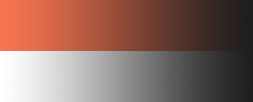
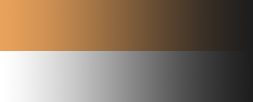
after evaluation: color scheme; remove heatmap interaction

Changed region(s): [[0.0, 0.0, 0.4704, 0.5]]

diff --git a/src/client/components/CrossingChart.js b/src/client/components/CrossingChart.js
@@ -102,11 +102,11 @@ class Area extends React.Component {
           <defs>
             <linearGradient id="gradient_cross" x1="74.9%" y1="0%" x2="75.1%" y2="0%">
               <stop offset="0%" stopColor="rgb(253, 128, 93)" stopOpacity={0.5} />
-              <stop offset="100%" stopColor="rgb(104, 90, 16)" stopOpacity={0.7} />
+              <stop offset="100%" stopColor="rgb(120, 151, 0)" stopOpacity={0.6} />
             </linearGradient>
             <linearGradient id="gradient_cover" x1="0%" y1="50%" x2="0%" y2="100%">
               <stop offset="0%" stopColor="rgb(0, 0, 0)" stopOpacity={0} />
-              <stop offset="100%" stopColor="rgb(0, 0, 0)" stopOpacity={0.6} />
+              <stop offset="100%" stopColor="rgb(0, 0, 0)" stopOpacity={0.95} />
             </linearGradient>
           </defs>
           <GridRows
@@ -144,8 +144,8 @@ class Area extends React.Component {
             data={crossing}
             x={d => xScale(xCrossing(d))}
             y={d => yScale(yCrossing(d))}
-            stroke="rgba(255,255,255,0.4)"
-            strokeWidth={1}
+            stroke="rgba(255,255,255,0.5)"
+            strokeWidth={0.8}
             curve={curveMonotoneX}
           />
           <Bar

diff --git a/src/client/components/HeatmapBuffer.js b/src/client/components/HeatmapBuffer.js
@@ -2,7 +2,6 @@ import React from 'react';
 import { Group } from '@vx/group';
 import { scaleLinear } from '@vx/scale';
 import { HeatmapRect } from '@vx/heatmap';
-import { withTooltip, Tooltip } from '@vx/tooltip';
 
 // redux states management
 import { connect } from 'react-redux';
@@ -38,7 +37,7 @@ class HeatmapBuf extends React.Component {
     } = this.props;
     
     const hot1 = 'rgb(29, 29, 29)';
-    const hot2 = 'rgb(247, 116, 79)';
+    const hot2 = 'rgb(234, 162, 91)';
     const data = JSON.parse(this.getJSON(this.props.utilization_buf_url));
 
     // utils
@@ -110,10 +109,6 @@ class HeatmapBuf extends React.Component {
                       y={bin.y}
                       fill={bin.color}
                       fillOpacity={bin.opacity}
-                      onClick={event => {
-                        const { row, column } = bin;
-                        alert(JSON.stringify({ row, column, ...bin.bin }));
-                      }}
                     />
                   );
                 });

diff --git a/src/client/components/HeatmapMain.js b/src/client/components/HeatmapMain.js
@@ -2,7 +2,6 @@ import React from 'react';
 import { Group } from '@vx/group';
 import { scaleLinear } from '@vx/scale';
 import { HeatmapRect } from '@vx/heatmap';
-import { withTooltip, Tooltip } from '@vx/tooltip';
 
 // redux states management
 import { connect } from 'react-redux';
@@ -110,10 +109,6 @@ class HeatmapMain extends React.Component {
                       y={bin.y}
                       fill={bin.color}
                       fillOpacity={bin.opacity}
-                      onClick={event => {
-                        const { row, column } = bin;
-                        alert(JSON.stringify({ row, column, ...bin.bin }));
-                      }}
                     />
                   );
                 });

diff --git a/src/client/components/FlowChart.js b/src/client/components/FlowChart.js
@@ -160,9 +160,9 @@ class Area extends React.Component {
         <svg ref={s => (this.svg = s)} width={width} height={height}>
           <rect x={0} y={0} width={width} height={height} opacity={0} />
           <defs>
-            <linearGradient id="gradient_flow" x1="0%" y1="20%" x2="0%" y2="100%">
+            <linearGradient id="gradient_flow" x1="0%" y1="5%" x2="0%" y2="88%">
               <stop offset="0%" stopColor="rgb(253, 128, 93)" stopOpacity={0.5} />
-              <stop offset="100%" stopColor="rgb(253, 128, 93)" stopOpacity={0.2} />
+              <stop offset="100%" stopColor="rgb(253, 128, 93)" stopOpacity={0.05} />
             </linearGradient>
           </defs>
           <GridRows
